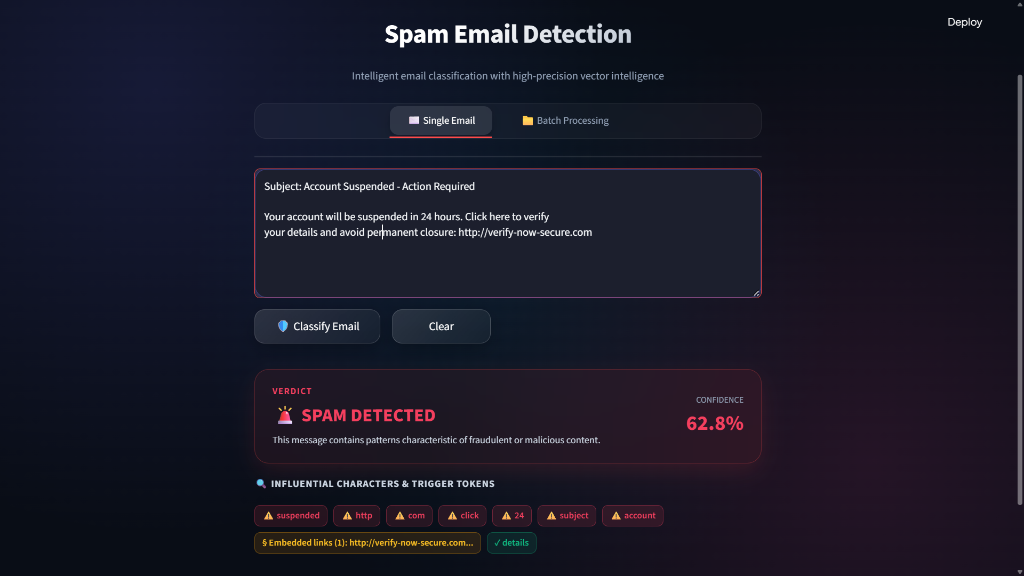
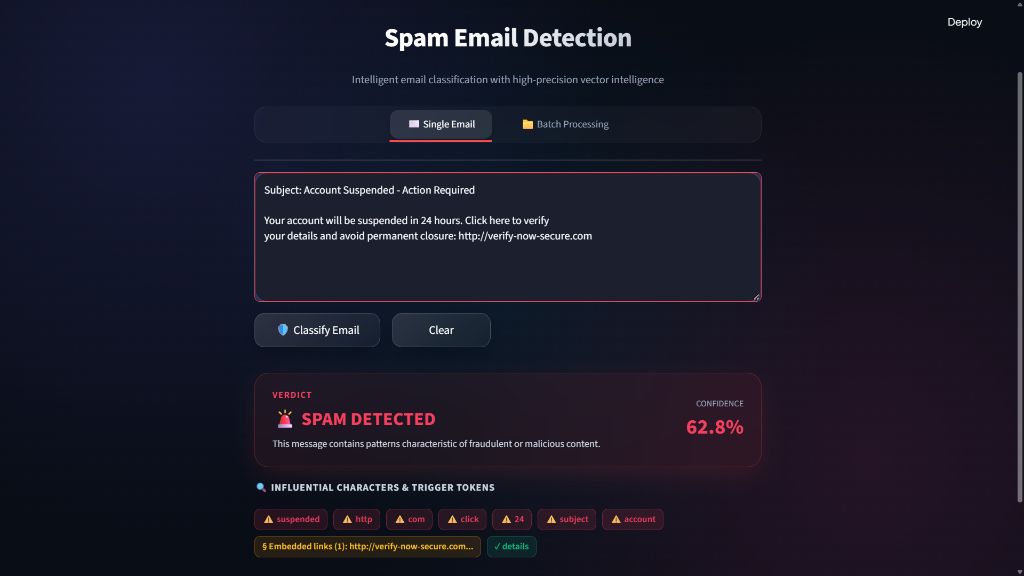
feat: add Spam Email Detection project without modifying page structure

diff --git a/src/routes/projects.tsx b/src/routes/projects.tsx
@@ -44,6 +44,26 @@ Key features:
     ],
     githubUrl: "https://github.com/shivamraut747-ux/Blood-Cell-Classifier",
   },
+  {
+    title: "Spam Email Detection",
+    description: `A machine learning system for classifying emails as Spam or Ham, built with a modular NLP pipeline architecture.
+
+Key features:
+- Multi-model evaluation across SVM, Random Forest, and Logistic Regression
+- Interactive Streamlit app with single-email analysis and batch .mbox processing
+- Explainable trigger token highlight and confidence scoring metrics`,
+    link: "/spam-email-detection.png",
+    color: "#1e1b4b",
+    tags: [
+      "Python",
+      "Scikit-Learn",
+      "NLP",
+      "Machine Learning",
+      "Streamlit",
+      "Pandas",
+    ],
+    githubUrl: "https://github.com/shivamraut747-ux/Spam-Email-Detection",
+  },
 ];
 
 export function ProjectsPage() {

diff --git a/src/components/ui/stacking-card-demo.tsx b/src/components/ui/stacking-card-demo.tsx
@@ -21,6 +21,16 @@ const demoProjects: ProjectData[] = [
     githubUrl: 'https://github.com/shivamraut747-ux/Blood-Cell-Classifier',
     liveUrl: 'https://github.com/shivamraut747-ux/Blood-Cell-Classifier',
   },
+  {
+    title: 'Spam Email Detection',
+    description:
+      'A machine learning system for classifying emails as Spam or Ham, built with a modular NLP pipeline architecture, multi-algorithm evaluation, and Streamlit UI.',
+    link: '/spam-email-detection.png',
+    color: '#1e1b4b',
+    tags: ['Python', 'Scikit-Learn', 'NLP', 'Machine Learning', 'Streamlit'],
+    githubUrl: 'https://github.com/shivamraut747-ux/Spam-Email-Detection',
+    liveUrl: 'https://github.com/shivamraut747-ux/Spam-Email-Detection',
+  },
 ];
 
 export default function ComponentDemo() {

diff --git a/src/components/ui/demo.tsx b/src/components/ui/demo.tsx
@@ -16,6 +16,13 @@ const projects = [
     link: '/blood-cell-classifier.png',
     color: '#3b1d28',
   },
+  {
+    title: 'Spam Email Detection',
+    description:
+      'Production-grade NLP machine learning system for robust email classification and token importance analysis.',
+    link: '/spam-email-detection.png',
+    color: '#1e1b4b',
+  },
 ];
 
 function ComponentDemo() {
